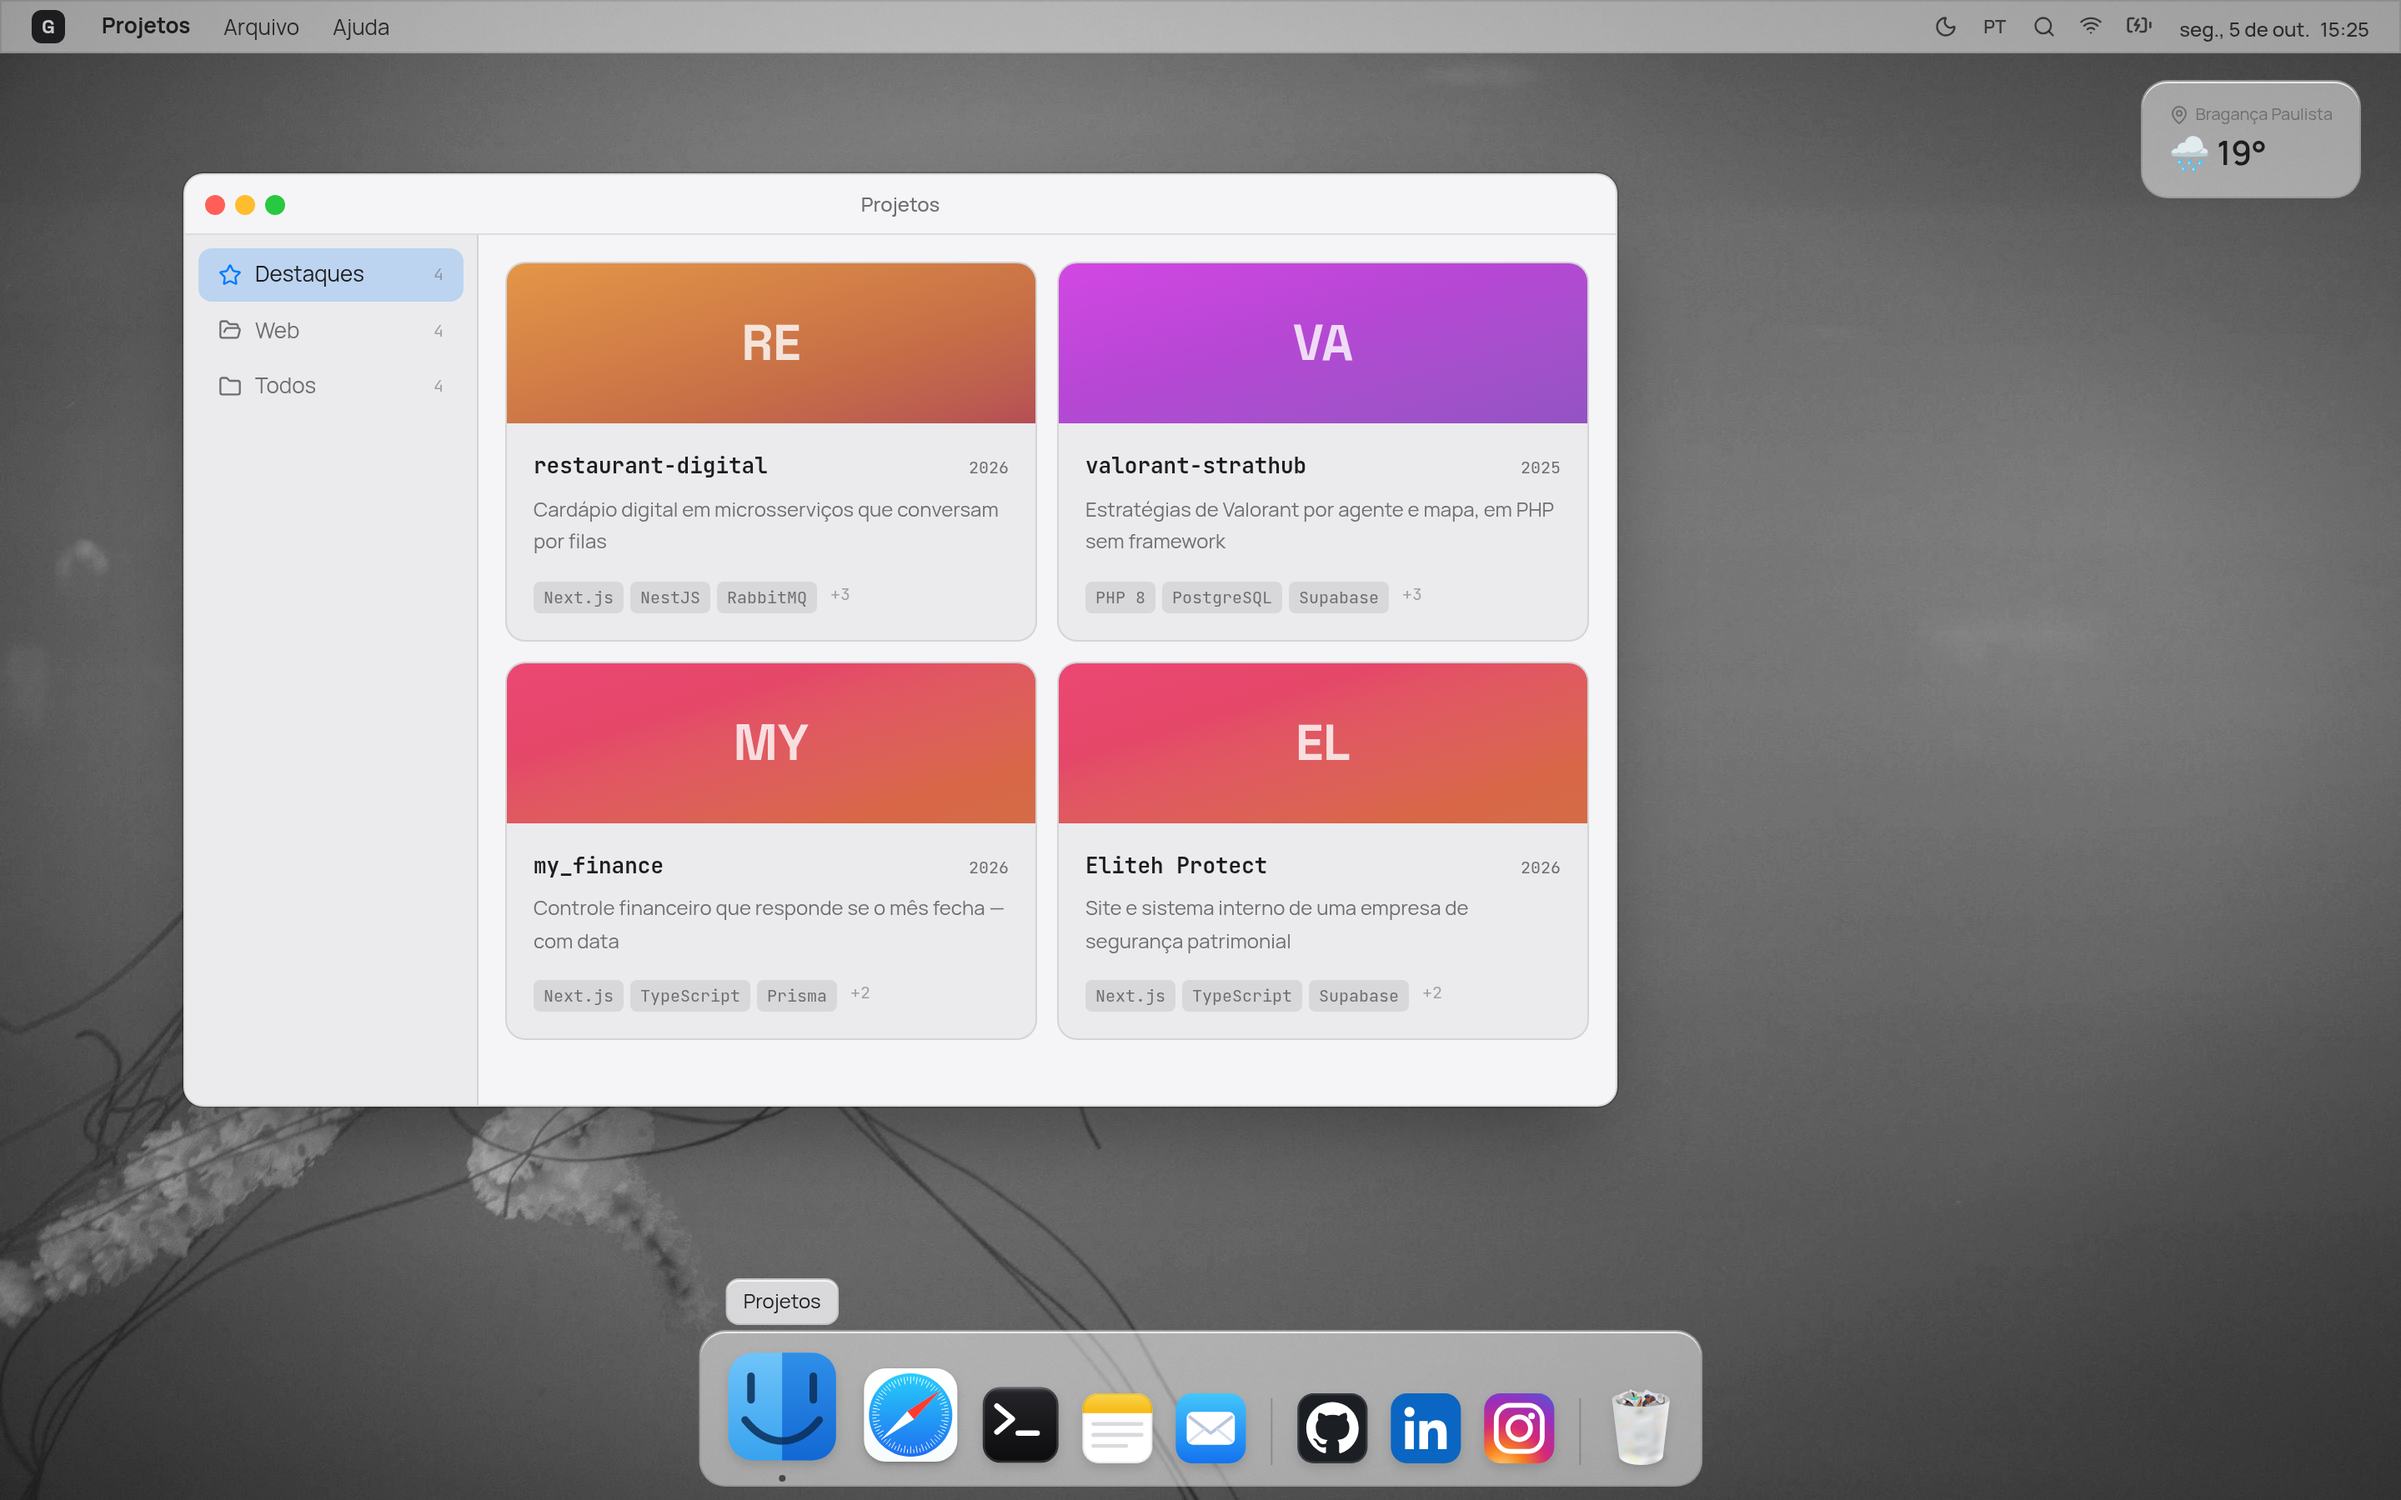
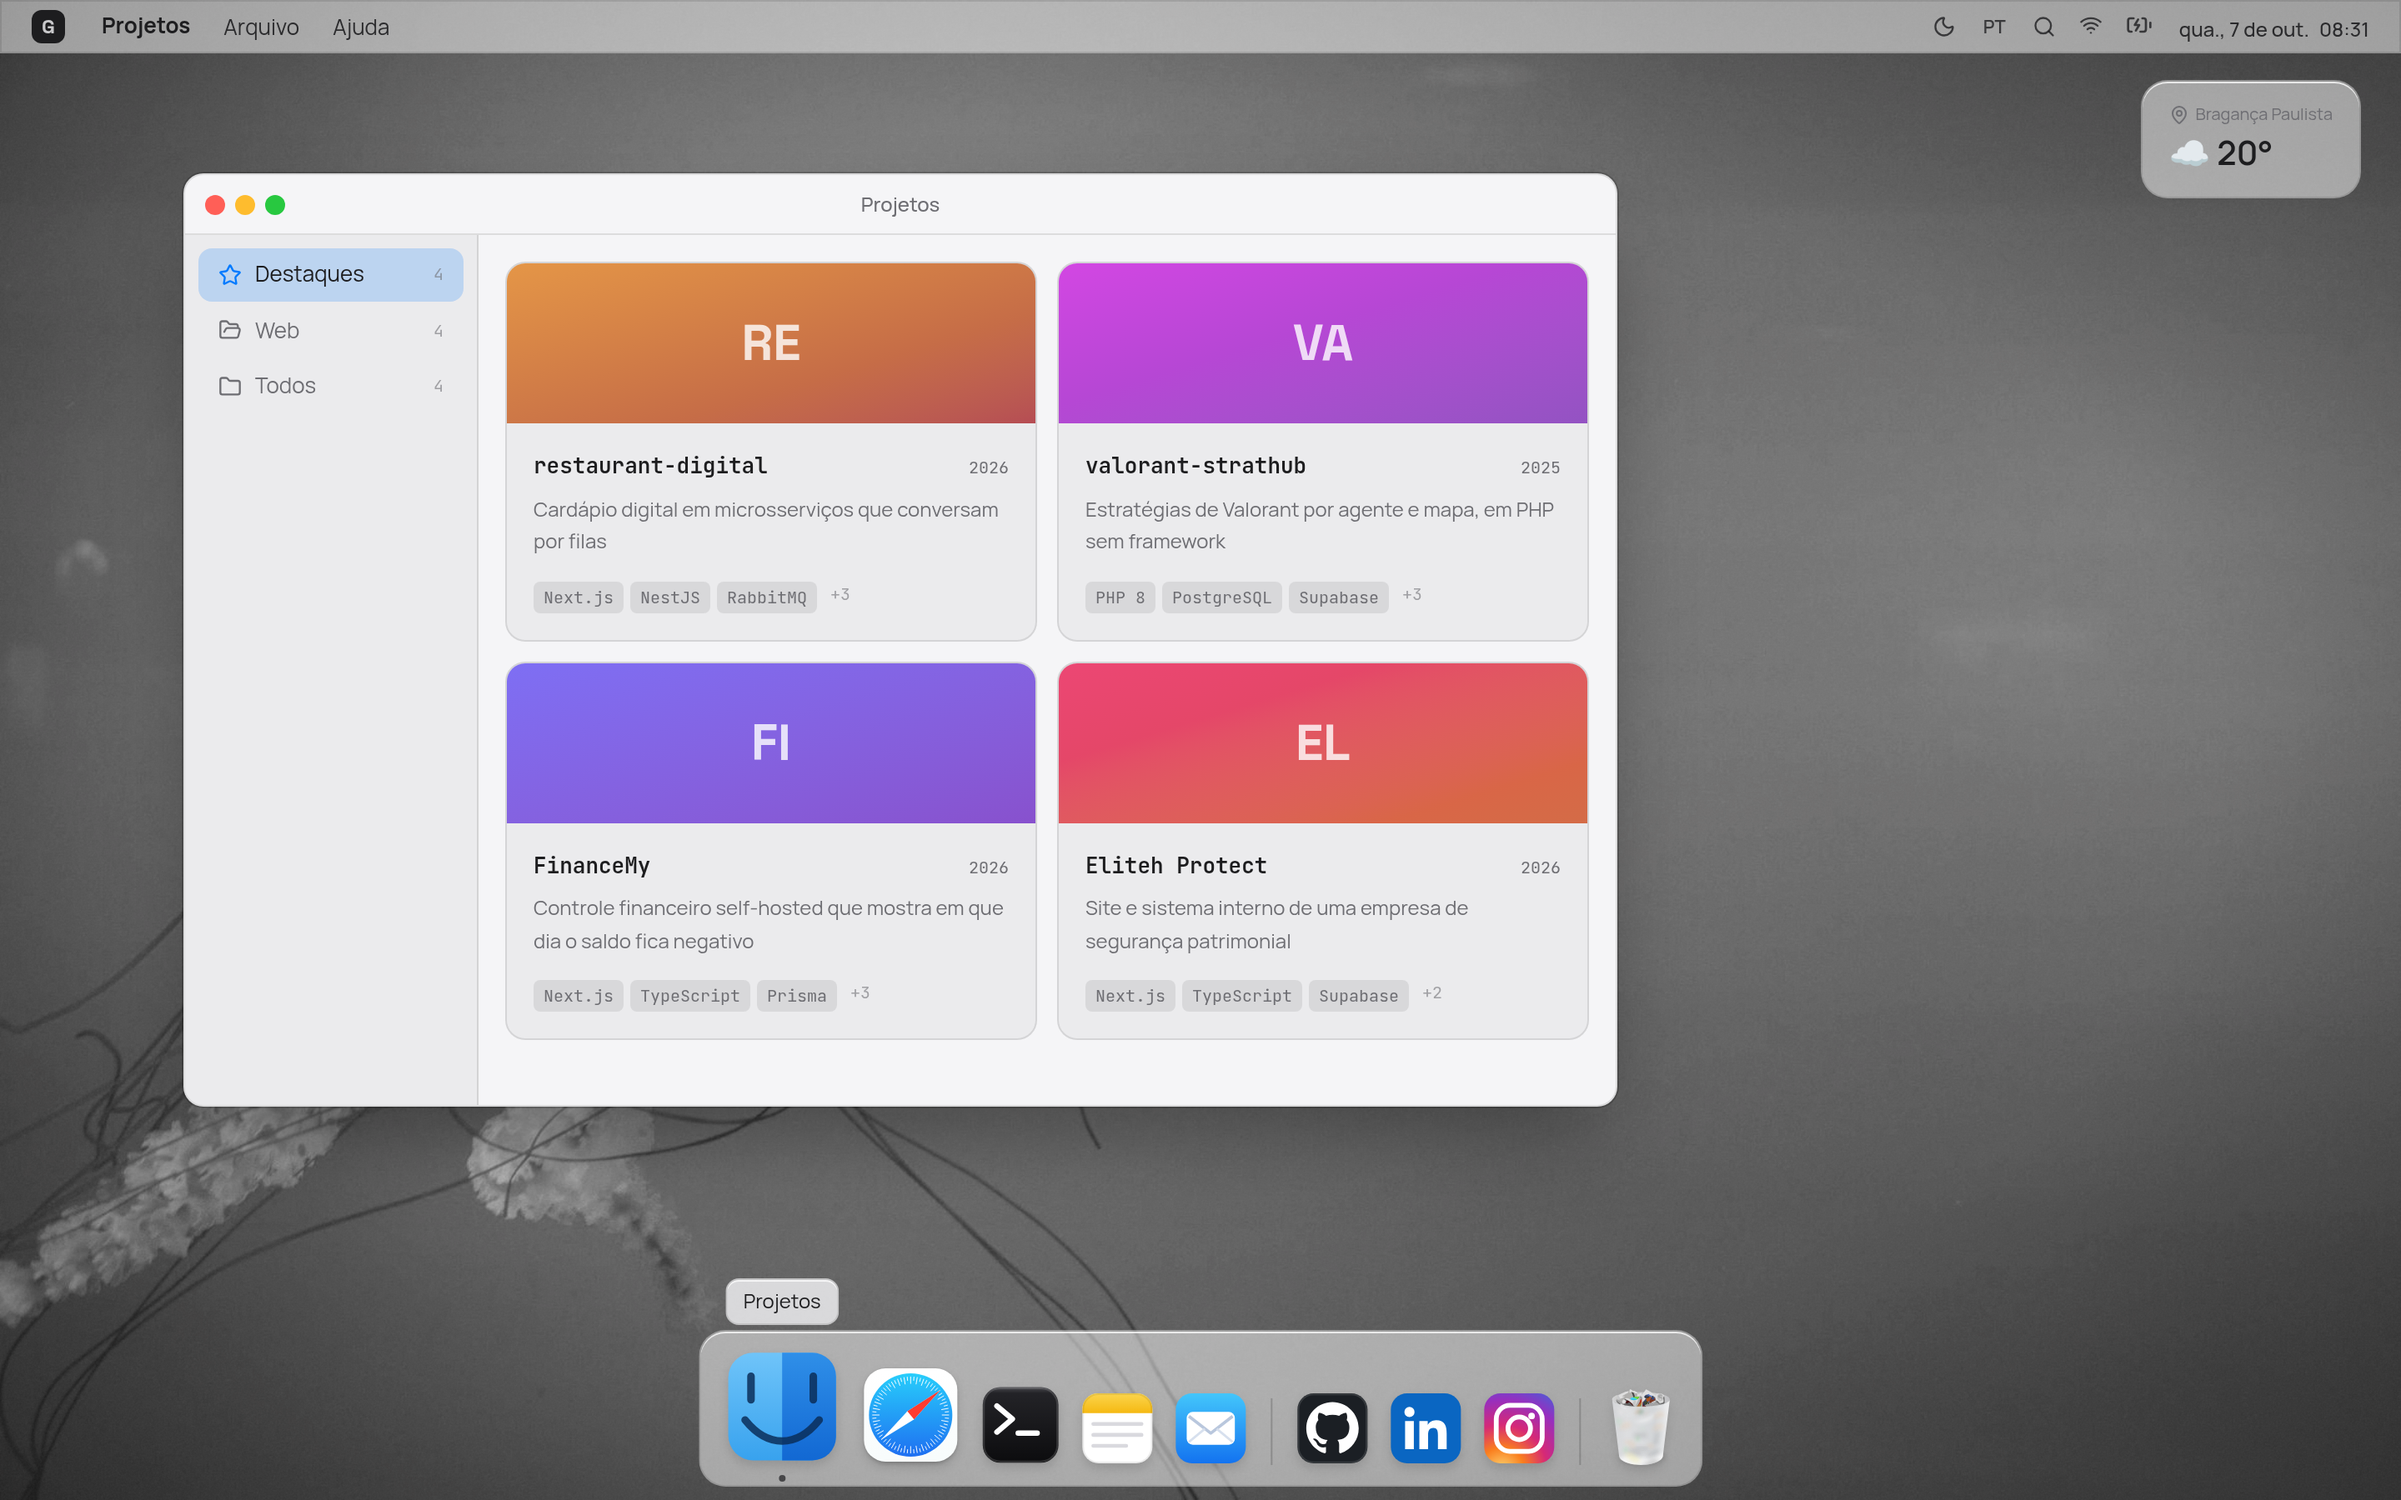
PORTFOLIO | FEAT | troca my_finance pelo FinanceMy na vitrine

diff --git a/src/data/projects.ts b/src/data/projects.ts
@@ -72,29 +72,33 @@ export const projects: Project[] = [
     ],
   },
   {
-    id: "my-finance",
-    name: "my_finance",
+    id: "financemy",
+    name: "FinanceMy",
     year: 2026,
     category: "web",
     featured: true,
-    stack: ["Next.js", "TypeScript", "Prisma", "PostgreSQL", "Vitest"],
-    github: "https://github.com/GuiCMoreira/my_finance",
+    stack: ["Next.js", "TypeScript", "Prisma", "PostgreSQL", "Vitest", "Docker"],
+    github: "https://github.com/GuiCMoreira/financemy",
     tagline: {
-      pt: "Controle financeiro que responde se o mês fecha — com data",
-      en: "Personal finance app that tells you if the month closes — by date",
+      pt: "Controle financeiro self-hosted que mostra em que dia o saldo fica negativo",
+      en: "Self-hosted finance app that shows the day your balance goes negative",
     },
     description: {
-      pt: "Para quem divide o cartão com outras pessoas: mostra entradas e saídas por dia, quanto da fatura volta como reembolso e quanto custa rolar a fatura. As regras de negócio vivem numa camada pura, sem banco nem React, coberta por testes.",
-      en: "For people who share their credit card: shows money in and out by day, how much of the bill comes back as reimbursement and what rolling the bill really costs. Business rules live in a pure layer, with no database or React, covered by tests.",
+      pt: "Fluxo de caixa por data, cartão com fechamento e vencimento de verdade, reembolsos de quem usa o seu cartão, parcelamentos, recorrências e relatórios. Cada pessoa sobe a própria instância, protegida por senha. As regras vivem numa camada pura, sem banco nem React, coberta por 85 testes.",
+      en: "Cash flow by date, credit cards with real closing and due dates, reimbursements from people who use your card, installments, recurring entries and reports. Each person runs their own password-protected instance. Business rules live in a pure layer, with no database or React, covered by 85 tests.",
     },
     highlights: [
+      {
+        pt: "Uma tabela de lançamentos: parcelamento e recorrência são geradores, não tipos",
+        en: "One entries table: installments and recurrences are generators, not types",
+      },
       {
         pt: "Dinheiro em centavos inteiros e datas como YYYY-MM-DD: nada de float nem fuso",
         en: "Money as integer cents and dates as YYYY-MM-DD: no floats, no timezone bugs",
       },
       {
-        pt: "Camada de domínio sem dependências, testada em milissegundos",
-        en: "Dependency-free domain layer, tested in milliseconds",
+        pt: "Demo completa com um comando: docker compose sobe banco, app e dados fictícios",
+        en: "Full demo in one command: docker compose brings up database, app and sample data",
       },
     ],
   },

diff --git a/src/components/apps/safari/SearchPage.tsx b/src/components/apps/safari/SearchPage.tsx
@@ -70,8 +70,8 @@ export function SearchPage({
       title: "GuiCMoreira (Guilherme Carvalho) · GitHub",
       url: "github.com › GuiCMoreira",
       snippet: pt
-        ? "Microsserviços com RabbitMQ, um TCC em PHP sem framework, um app de finanças com domínio testado e este portfólio que você está usando agora."
-        : "Microservices with RabbitMQ, a framework-free PHP final project, a finance app with a tested domain layer and this very portfolio you're using right now.",
+        ? "Microsserviços com RabbitMQ, um TCC em PHP sem framework, um app de finanças self-hosted com domínio testado e este portfólio que você está usando agora."
+        : "Microservices with RabbitMQ, a framework-free PHP final project, a self-hosted finance app with a tested domain layer and this very portfolio you're using right now.",
       action: () => onNavigate(GITHUB_URL),
     },
     {
